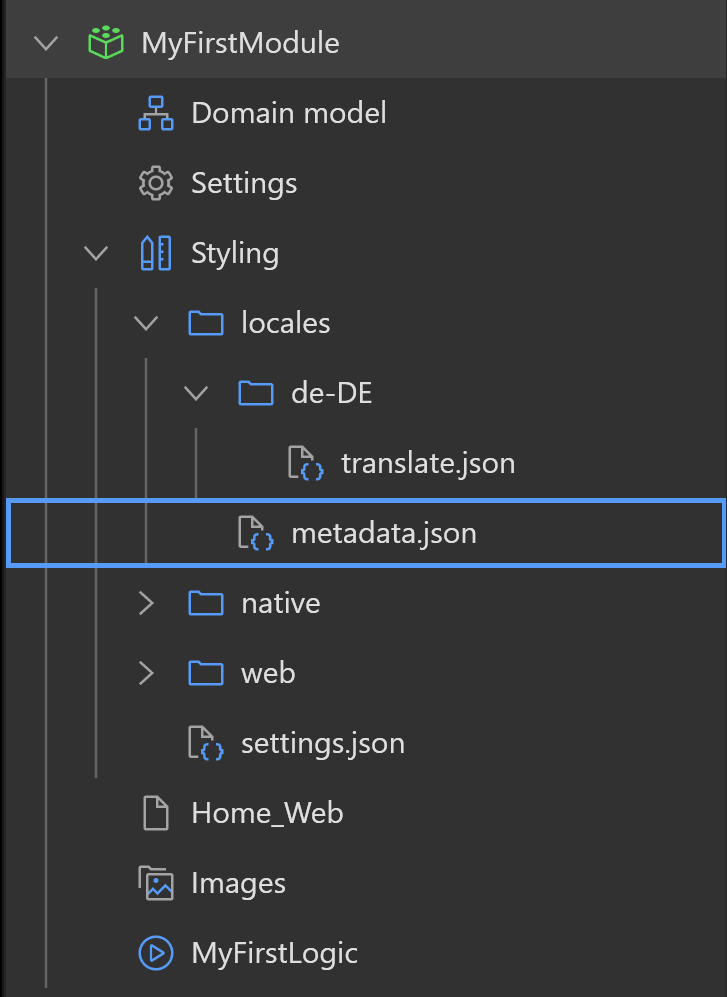
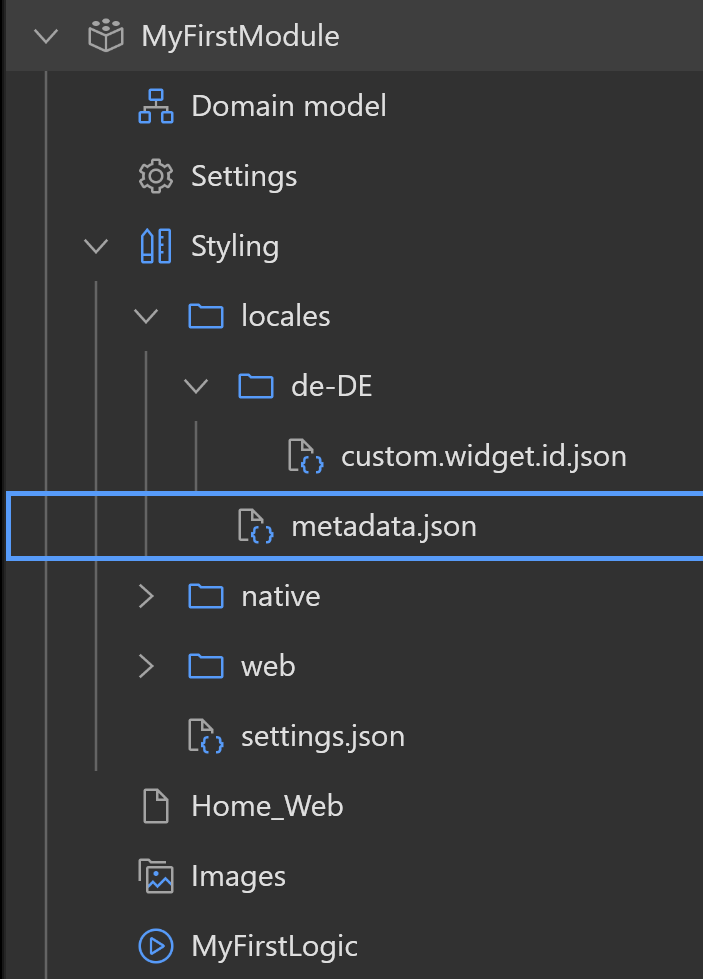
Review: more technical details

diff --git a/content/en/docs/apidocs-mxsdk/apidocs/frontend/design-properties.md b/content/en/docs/apidocs-mxsdk/apidocs/frontend/design-properties.md
@@ -742,11 +742,11 @@ When the **Small** option is selected, the `borderRadiusSmall` class will be app
 
 ## Translating design properties
 
-Design properties can be translated to match the users preferred user interface language. This includes the name of the design property and any of its options, if it has any, as shown in the styling properties panel. The provided translations do not affect the behavior of the design property.
+Design properties can be translated to match the users preferred user interface language. This includes the name of the design property, its description and any of its options, if it has any, as shown in the styling properties panel. The provided translations do not affect the behavior of the design property.
 
 To provide translations for your design properties, create a file *locales/{language-code}/translate.json* in the Styling folder of your module. The language code can be any of the user interface languages supported by Studio Pro, such as *de-DE*, *en-US*, *ja-JP*, *ko-KR* or *zh-CN*. Other files in the *locales/{language-code}* folders will be ignored. As a result, custom namespaces can't be used. The resulting structure could look like this:
 
-{{< figure src="/attachments/apidocs-mxsdk/apidocs/frontend/module-translation.png" alt="A translate.json file in the Styling/locales/de-DE folder" class="no-border" >}}
+{{< figure src="/attachments/apidocs-mxsdk/apidocs/design-properties/translations.png" alt="A translate.json file in the Styling/locales/de-DE folder" class="no-border" >}}
 
 These json files follow the format used by the I18next library, specifically v3. See [their documentation on the format](https://www.i18next.com/misc/json-format) for more information. For example to translate a design property with the name *Text align* with the options *left*, *center* and *right*, the contents of *locales/de-DE/translate.json* might look something like this:
 
@@ -761,6 +761,12 @@ These json files follow the format used by the I18next library, specifically v3.
 ```
 
 All design properties and options with the same name will be translated the same way, even if they are defined in different modules. When two or more modules define a translation for the same design property or design property option, the one used is not guaranteed to be the same as the one outlined in [Extending or Overriding Design Properties of Other Modules](#extend-existing-design-properties). As a result, it is recommended to only translate design properties and design property options in the same module in which they are defined.
+
+If a translation is not available, the names and descriptions as defined in the *design-properties.json* are used as a fallback instead. For example, the user changes their settings to work with Studio Pro in German, but the module does not have a *locales/de-DE/translate.json* file. This can also happen if the name of a design property, any of its options or descriptions are missing from the corresponding *translate.json* file.
+
+{{% alert color="warning" %}}
+When adding translations for existing design properties, do not change the name of existing design properties or their options as defined in *design-properties.json*. Those names cannot be changed easily when there are apps already using them. See the [Renaming Design Properties](#old-names) section.
+{{% /alert %}}
 
 ## Read More
 

diff --git a/content/en/docs/apidocs-mxsdk/apidocs/frontend/pluggable-widgets/_index.md b/content/en/docs/apidocs-mxsdk/apidocs/frontend/pluggable-widgets/_index.md
@@ -336,7 +336,7 @@ If there's no translations available for a users preferred user interface langua
 
 ### Providing Translations in a Pluggable Widget Package
 
-To support a translation for a specific language and locale, create a *locales/{language-code}/{widget ID}.json* or *locales/{language-code}/translate.json* file. The language code can be any of the user interface languages supported by Studio Pro, such as *de-DE*, *en-US*, *ja-JP*, *ko-KR* or *zh-CN*. Other files in the *locales* folder will be ignored. As a result, custom namespaces can't be used.
+To support a translation for a specific language and locale, create a *locales/{language-code}/{widget ID}.json* or *locales/{language-code}/translate.json* file. The language code can be any of the user interface languages supported by Studio Pro, such as *de-DE*, *en-US*, *ja-JP*, *ko-KR* or *zh-CN*. Other files in the *locales* folder will be ignored. As a result, custom namespaces can't be used. It's advised to use *translate.json*, unless your mpk contains multiple pluggable widgets. Note that if you use the widget ID as the file name, you'll have to replace any spaces and illegal path characters (if there are any) with underscores. The file name should be all lower case. For example: if your widget ID is *%My Pluggable Widget%*, the name of the file should be *_my_pluggable_widget_.json*.
 
 These json files follow the format used by the I18next library, specifically v3. See [their documentation on the format](https://www.i18next.com/misc/json-format) for more information. For example to translate a widget with the name *Text Box* that has a property *length*, the contents of *locales/de-DE/translate.json* might look something like this:
 
@@ -351,9 +351,9 @@ These json files follow the format used by the I18next library, specifically v3.
 
 Translations for a pluggable widget can also be provided by a module. This can be useful when you would like to provide a module that has more than one pluggable widget, or if your pluggable widget uses one or more [/apidocs-mxsdk/apidocs/frontend/design-properties/](design properties).
 
-To achieve this: create a *locales/{language-code}/{widget ID}.json* file in the Styling folder of your module. In addition, create a *locales/metadata.json* file. The resulting structure could look like this:
+To achieve this: create a *locales/{language-code}/{widget ID}.json* file in the Styling folder of your module. You'll have to replace any spaces and illegal path characters (if there are any) with underscores. The file name should be all lower case. For example: if your widget ID is *%My Pluggable Widget%*, the name of the file should be *_my_pluggable_widget_.json*. In addition, create a *locales/metadata.json* file. The resulting structure could look like this:
 
-{{< figure src="attachments/apidocs-mxsdk/apidocs/pluggable-widgets/translations.png" alt="A metadata.json file in the Styling/locales folder and a translate.json file in the Styling/locales/de-DE folder" class="no-border" >}}
+{{< figure src="attachments/apidocs-mxsdk/apidocs/pluggable-widgets/translations.png" alt="A metadata.json file in the Styling/locales folder and a custom.widget.id.json file in the Styling/locales/de-DE folder" class="no-border" >}}
 
 The contents of *locales/metadata.json* should be:
 
